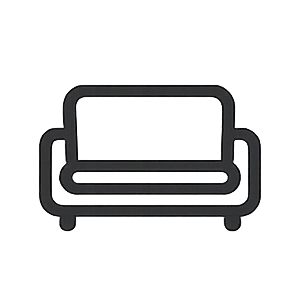
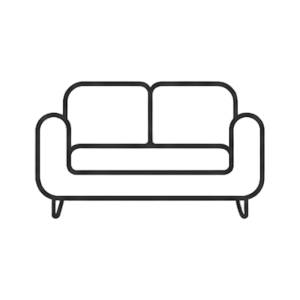
chore: melhora os icones de categoria

Changed region(s): [[0.09, 0.27, 0.9, 0.78]]

diff --git a/assets/css/categories/categories.css b/assets/css/categories/categories.css
@@ -31,7 +31,7 @@
     justify-content: space-between;
     align-items: center;
 
-    margin-top: 1.5rem;
+    margin-top: 2rem;
     gap: 2rem;
 }
 
@@ -42,7 +42,7 @@
 }
 
 .category-icon {
-    padding: 1rem;
+    padding: 5px;
     width: 100px;
     height: 100px;
 
@@ -60,6 +60,6 @@
 .category-icon img {
     width: 100%;
     height: 100%;
-    filter: saturate(60%) brightness(95%);
     object-fit: cover;
+    image-rendering: auto;
 }
